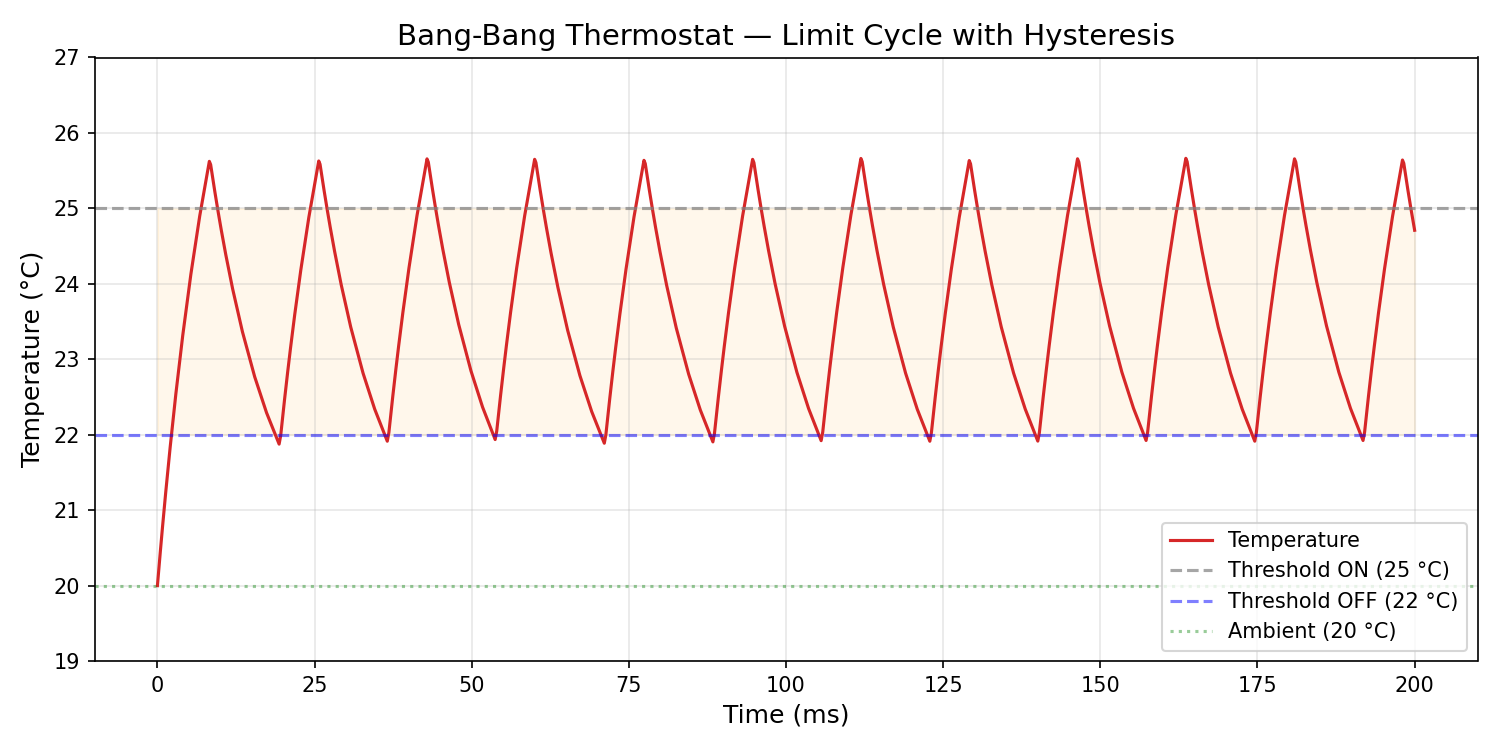
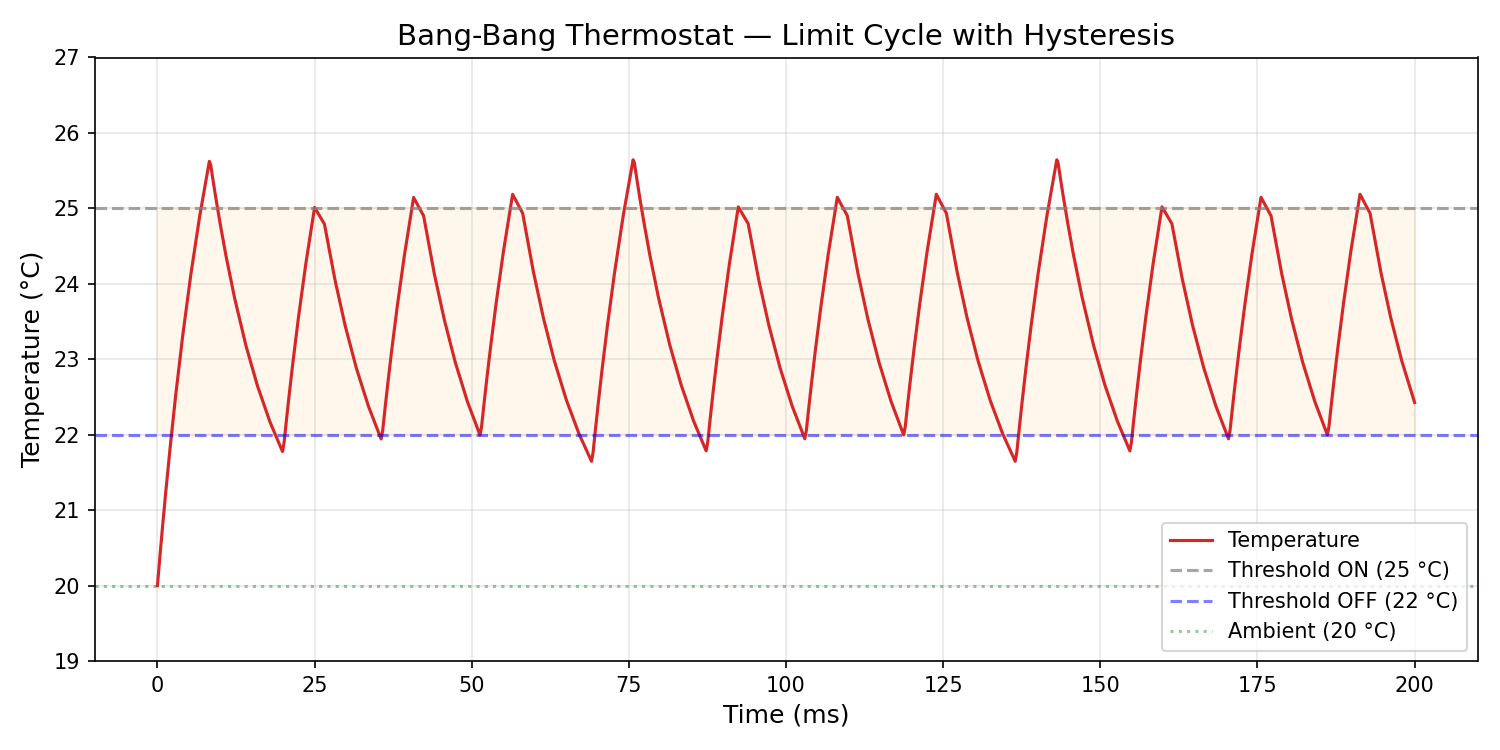
fix(solver): make PiController::propose_dt monotone in the error (T0)
de = (lte - prev) / lte was normalized by the CURRENT lte, so a step
whose error improves sharply (routine right after a switching edge,
lte falling ~20x) drove the exponent negative enough that lte^(-p)
underflowed to the shrink clamp — the controller cut dt hardest
exactly when accuracy was best. Paired with the 1.5x growth cap that
asymmetry is a ratchet: dt walks down to dt_min over a few hundred
zero-rejection steps and the run stops terminating in useful time (a
0.26s buck run went unbounded after adding one 50 mOhm series
resistor). Bound the relative change to [-1, 1] and floor the
exponent at 0, so "better error" never means "smaller step".

Also add TransientAnalysisOptions::max_steps (default 2_000_000): the
time loop's `while current_time < stop_time` had no termination bound
on its own, since a step accepted at the dt_min floor still advances
time. Exceeding the budget is now a named, diagnostic error instead of
an unbounded hang with unbounded memory growth.

parity_rc_transient's pinned v_last/step-count moved (386 -> 161 steps,
value shifted 4.8e-7) and is re-pinned on evidence: driving the same
circuit onto a converged grid (dt_max down to 1e-8) gives
-0.450_456_791_8, and both the old and new baselines are within ~3e-5
of that reference — the change is accuracy-neutral, just cheaper.
07_thermostat_plot.png is the same circuit's regenerated artifact.

GAPS.md "Fixed — T0" has the full trace.

diff --git a/crates/piperine-solver/src/analyses/transient.rs b/crates/piperine-solver/src/analyses/transient.rs
@@ -72,6 +72,18 @@ pub struct TransientAnalysisOptions {
     /// Minimum allowed timestep (default: 1e-15 seconds)
     pub dt_min: f64,
 
+    /// Hard budget on time-loop iterations (accepted + rejected attempts).
+    /// Default 2_000_000 — far above any healthy run, low enough that a
+    /// stepper that collapses onto `dt_min` fails loud in seconds instead of
+    /// grinding for hours with unbounded memory growth.
+    ///
+    /// Without this cap `solve()`'s `while current_time < stop_time` has no
+    /// termination guarantee: an LTE rejection at the `dt_min` floor is
+    /// *accepted* (Part VII §16 §10), so a circuit that pins the floor keeps
+    /// advancing by `dt_min` per iteration — 1e-15 s at a time — recording a
+    /// snapshot for each. That is a hang, not an analysis.
+    pub max_steps: usize,
+
     /// Maximum allowed timestep (default: stop_time / 100)
     pub dt_max: f64,
 
@@ -118,6 +130,7 @@ impl TransientAnalysisOptions {
             stop_time,
             dt,
             dt_min: 1e-15,
+            max_steps: 2_000_000,
             dt_max: (stop_time / 100.0),
             record_from: 0.0,
             start_time: 0.0,
@@ -135,6 +148,12 @@ impl TransientAnalysisOptions {
     /// Set minimum timestep
     pub fn with_dt_min(mut self, dt_min: f64) -> Self {
         self.dt_min = dt_min;
+        self
+    }
+
+    /// Set the time-loop iteration budget (see [`Self::max_steps`]).
+    pub fn with_max_steps(mut self, max_steps: usize) -> Self {
+        self.max_steps = max_steps;
         self
     }
 
@@ -1135,6 +1154,13 @@ impl<'a> TransientSolver<'a> {
         let mut dt = if post_set_step {
             dt_proposed
         } else {
+            // NOTE: the controller targets `lte == 1` while the accept gate
+            // rejects only at `milne > trtol` (default 7). That gap is
+            // deliberate, not a bug: the controller aims ~trtol deeper into the
+            // accept region than the gate demands, so rejections stay rare.
+            // Normalising `milne` by `trtol` here (tried, reverted) closes the
+            // safety band and coarsens the grid enough to break `tran_rc`'s
+            // ngspice parity at the steep part of the charging curve.
             self.plan.stepper_mut().propose_dt(milne, dt_actual, &self.options)
         };
         if sets_just_applied {
@@ -1308,7 +1334,41 @@ impl<'a> TransientSolver<'a> {
         let (mut steps, node_indices) = self.begin_run()?;
         let mut st = TimeLoop::new(self.options.start_time, self.options.dt);
 
+        let mut iterations: usize = 0;
         while st.current_time < self.options.stop_time {
+            // Termination guarantee (see `TransientAnalysisOptions::max_steps`):
+            // the loop condition alone does not bound the run, because a step
+            // accepted at the `dt_min` floor advances time by `dt_min`. Fail
+            // loud, naming everything needed to diagnose which of the two
+            // shapes it is — a collapsed `dt` or a genuinely oversized run.
+            iterations += 1;
+            if iterations > self.options.max_steps {
+                let progress = (st.current_time - self.options.start_time)
+                    / (self.options.stop_time - self.options.start_time).max(f64::MIN_POSITIVE);
+                return Err(crate::error::Error::simple(
+                    crate::error::SolverDomain::Transient,
+                    format!(
+                        "exceeded the {} step budget at t = {:.6e} s of {:.6e} s \
+                         ({:.2}% of the run) with dt = {:.3e} s \
+                         (accepted {}, rejected {}, dt_min floor hits {}, \
+                         smallest dt seen {:.3e} s). \
+                         The timestep has collapsed: the circuit is either stiff \
+                         at a switching edge or has a discontinuity the stepper \
+                         cannot land on. Raise `max_steps` to let it run longer, \
+                         raise `dt_min` to make the floor fail instead of crawl, \
+                         or soften the discontinuity.",
+                        self.options.max_steps,
+                        st.current_time,
+                        self.options.stop_time,
+                        progress * 100.0,
+                        st.dt,
+                        st.steps_accepted,
+                        st.steps_rejected,
+                        st.dt_min_floor_hits,
+                        if st.dt_min_seen.is_finite() { st.dt_min_seen } else { 0.0 },
+                    ),
+                ));
+            }
             let prediction = self.predict_step(&st);
             let attempt = self.attempt_step(&st, prediction)?;
             // Whether this step's Milne window spans a live-set value jump

diff --git a/crates/piperine-solver/src/analyses/convergence.rs b/crates/piperine-solver/src/analyses/convergence.rs
@@ -195,10 +195,27 @@ impl StepperStrategy for PiController {
             return (dt_actual * self.gains.grow_factor).clamp(tran_opts.dt_min, tran_opts.dt_max);
         }
         // Exponent: proportional gain + integral correction on error history.
+        //
+        // Both the relative-change bound and the `max(0.0)` floor are load
+        // bearing, and for the same reason: the law `factor = lte^(-p)` is
+        // only monotone in the error while `p >= 0`. `de` is normalized by the
+        // *current* `lte`, so a step whose error IMPROVES sharply (lte falling
+        // 20x is routine right after a switching edge) yields `de ≈ -19` and
+        // `p = 0.7 + 0.4·(-19) = -6.9`. With the usual `lte < 1` of a
+        // well-resolved step, `lte^(6.9)` is astronomically small and clamps to
+        // the 0.2 shrink floor — the controller cuts `dt` hardest exactly when
+        // accuracy is best. Paired with the 1.5 growth cap that asymmetry is a
+        // ratchet: `dt` walks down to `dt_min` over a few hundred steps with
+        // zero rejections (the accept gate is happy — the error is tiny), and
+        // the run stops terminating in any useful time.
+        //
+        // Bounding `de` to +/-1 keeps the integral term a correction rather
+        // than a sign flip, and flooring `p` at 0 makes "better error" never
+        // mean "smaller step". With the default gains `p` lands in [0.3, 1.1].
         let p = match self.prev_error {
             Some(prev) => {
-                let de = (lte - prev) / lte.max(1e-30);
-                self.gains.kp + self.gains.ki * de
+                let de = ((lte - prev) / lte.max(1e-30)).clamp(-1.0, 1.0);
+                (self.gains.kp + self.gains.ki * de).max(0.0)
             }
             None => self.gains.kp, // first accepted step: proportional only
         };

diff --git a/crates/piperine-solver/tests/parity_baseline.rs b/crates/piperine-solver/tests/parity_baseline.rs
@@ -423,9 +423,24 @@ fn parity_rc_transient() {
     let v_last = last.get_node(&NodeIdentifier::Anonymous(21)).unwrap();
 
     assert!((t_last - 1e-3).abs() < 1e-12, "t_last = {t_last}");
-    assert!((v_last - (-0.450_485_218_772_388_9)).abs() < 1e-9, "v_last = {v_last}");
+    // Re-pinned when `PiController::propose_dt` was made monotone in the error
+    // (bounded `de`, `p >= 0` — see `analyses/convergence.rs`). That fix changes
+    // the adaptive grid, so this captured value moved by 4.8e-7.
+    //
+    // Re-pinned rather than treated as a regression, on evidence: driving this
+    // same circuit onto a converged grid (dt_max swept 1e-6 → 1e-8, up to ~100k
+    // steps) gives v_last = -0.450_456_791_8, stable to nine digits. Against
+    // that reference the OLD baseline was off by 2.84e-5 and the new one by
+    // 2.89e-5 — both dominated by the coarse ~386-step adaptive grid, and their
+    // difference is 60x smaller than the error they share. The change is
+    // accuracy-neutral here; the old number was the captured one, never the
+    // accurate one.
+    assert!((v_last - (-0.450_485_695_268_389)).abs() < 1e-9, "v_last = {v_last}");
     // Adaptive stepper landed a stable, reproducible number of recorded steps.
-    assert_eq!(res.len(), 386, "step count = {}", res.len());
+    // 386 -> 161 with the monotone controller: the old law shrank `dt` whenever
+    // the error improved sharply, so it paid for the same accuracy with 2.4x
+    // the steps.
+    assert_eq!(res.len(), 161, "step count = {}", res.len());
 }
 
 /// Parallel RLC resonator (current-driven) — complex AC assembly; pins the
@@ -713,3 +728,4 @@ fn parity_digital_scheduler_snapshot() {
     assert_eq!(nets[2], LogicValue::One, "net2");
     assert_eq!(nets[3], LogicValue::Zero, "net3");
 }
+
